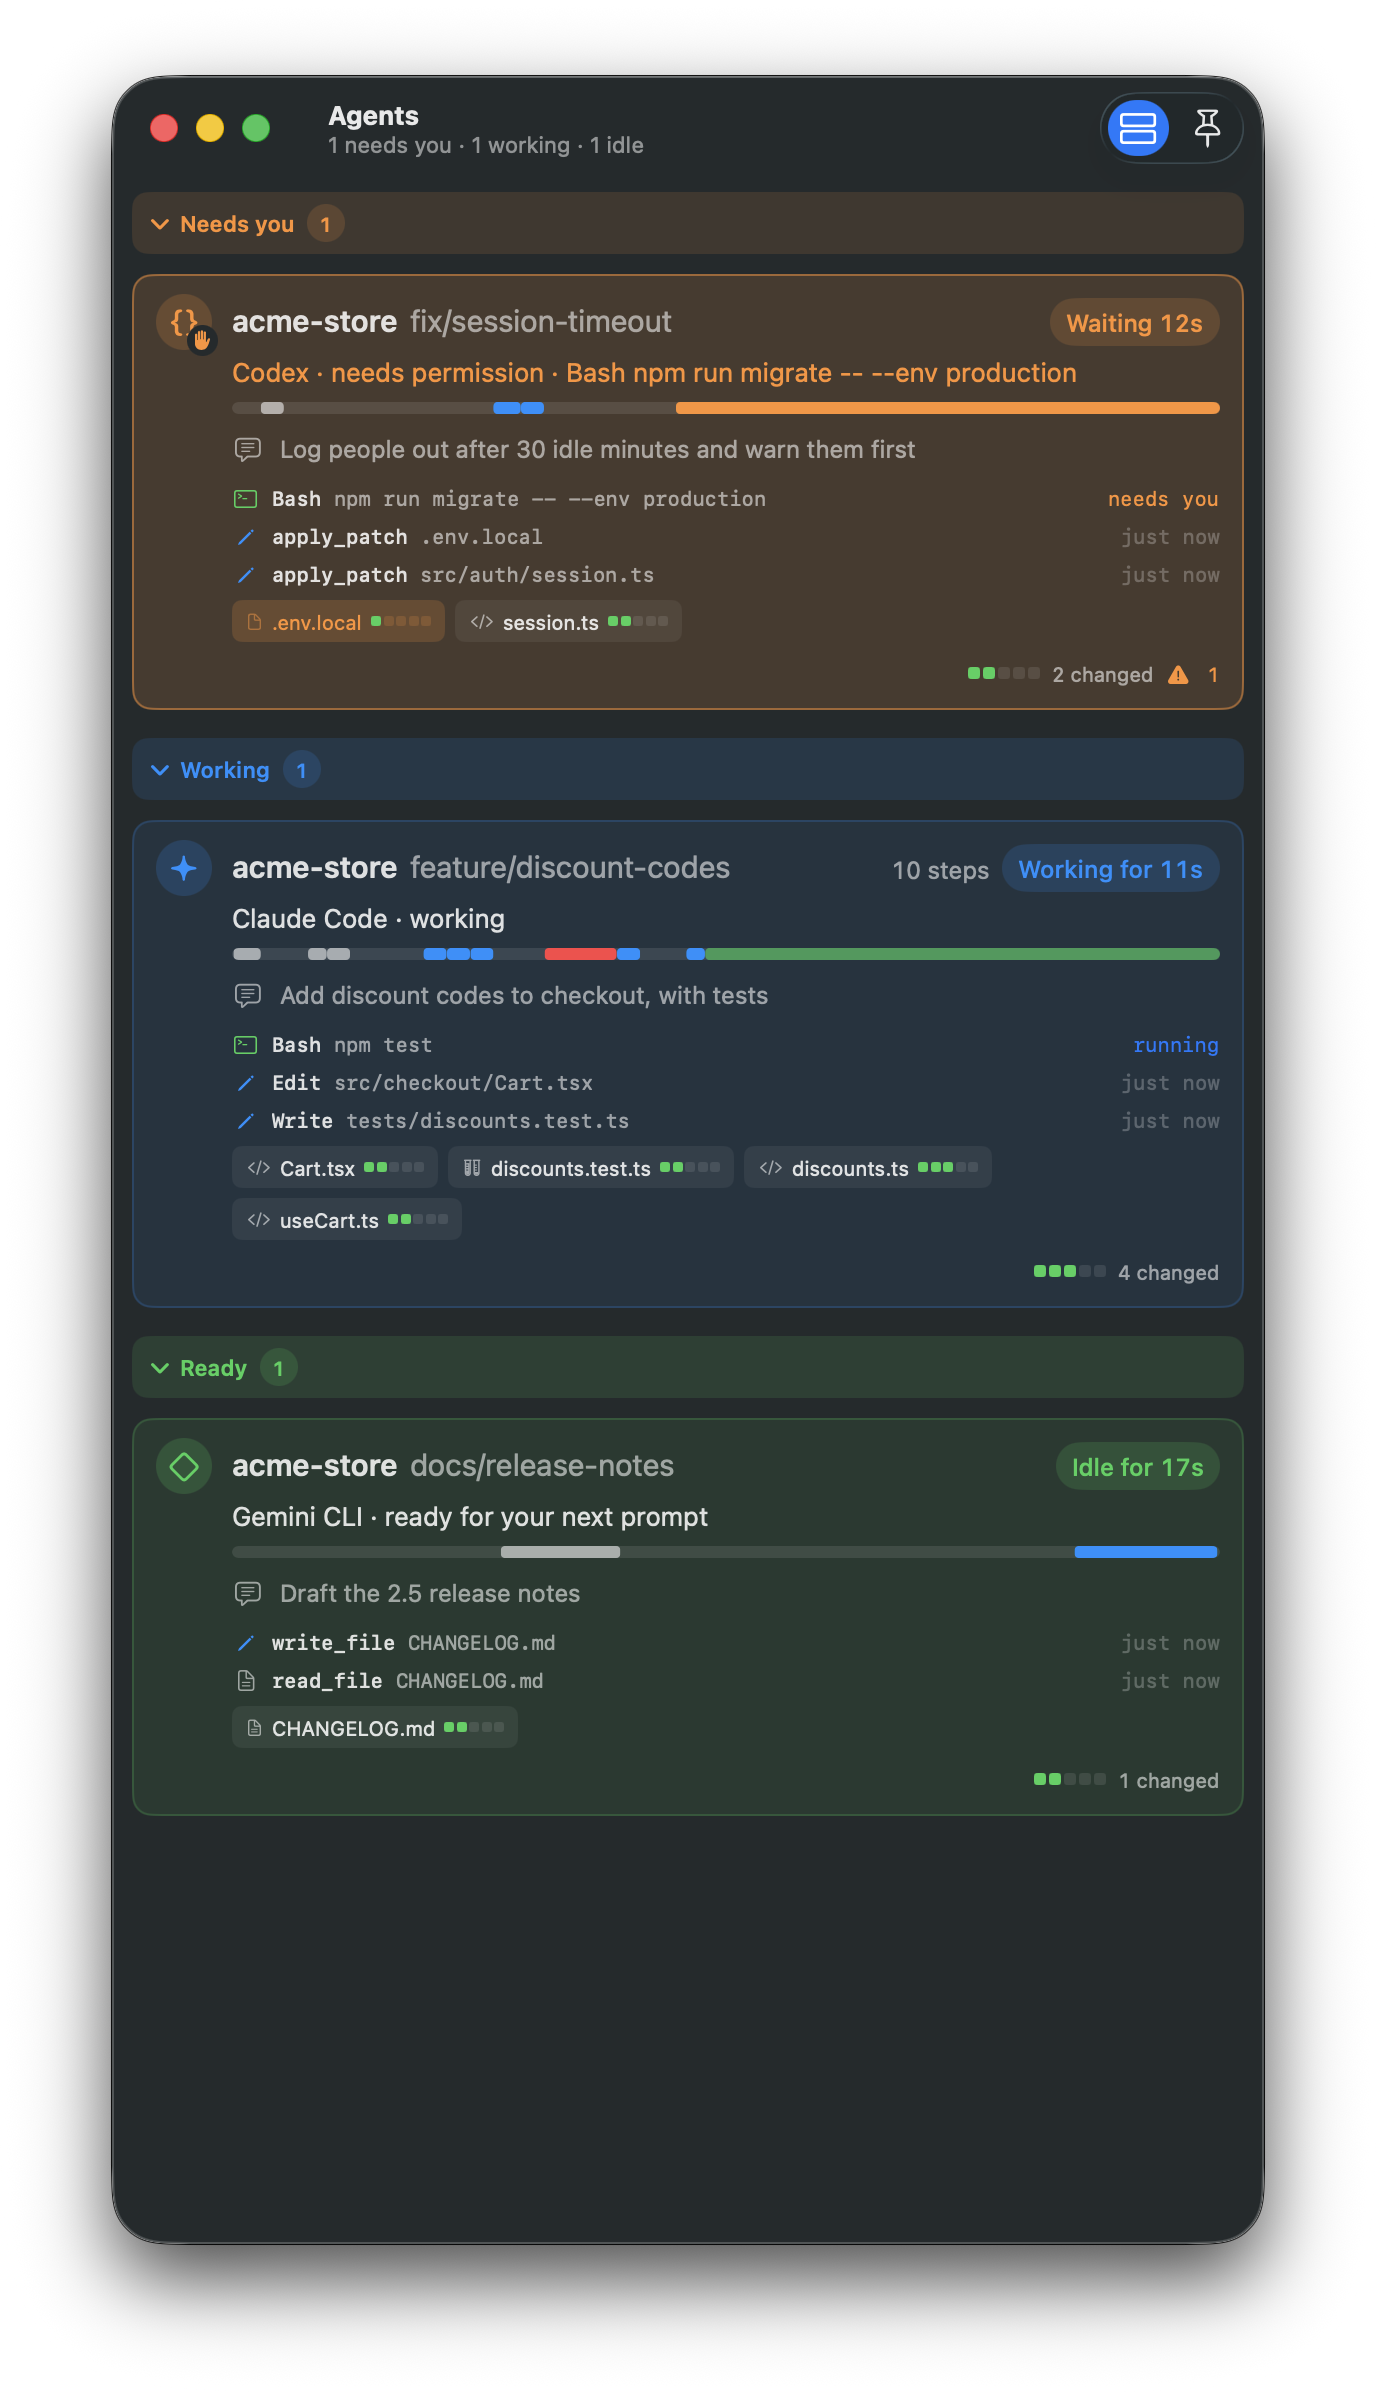
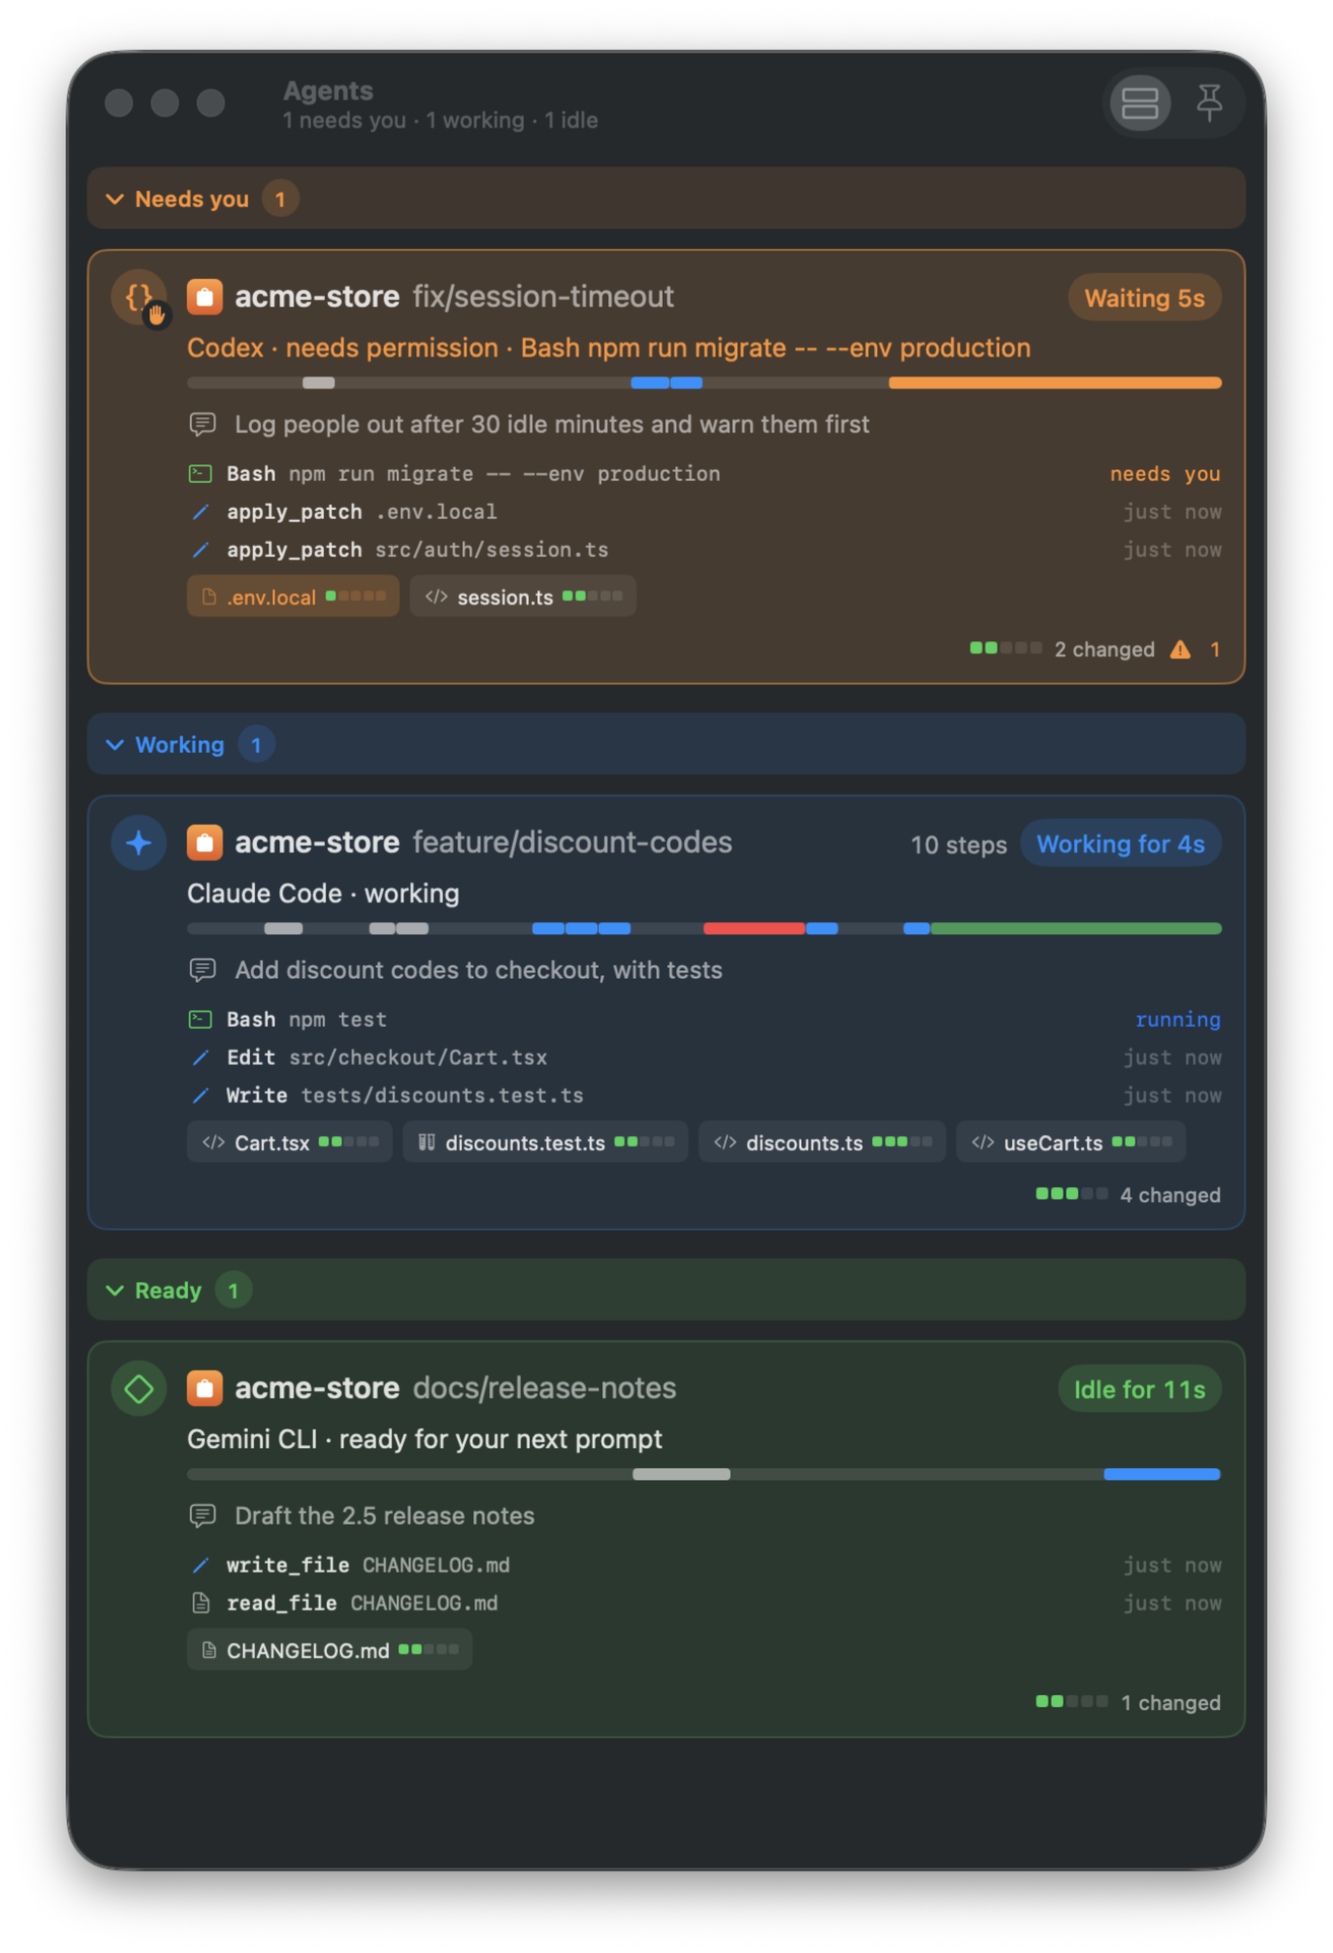
Refresh the README's recording and screenshots
They predated the repositories' icons, the merge and first-run work and the newer layout. Taken
again from the demo, with a second repository beside the web shop, each under an app icon of its
own:

- docs/mimamori-demo.gif: the three agents starting work, 23 s, 4.1 MB (was 5.3).
- docs/mimamori-main.png: the main window with the sidebar showing both repositories.
- docs/mimamori-agents.png: the Agents window, each card led by its project's icon, sized to fit.

A debug flag, sidebar:show, unfolds the main window's sidebar for these captures: the demo shares
the app's bundle id, so it inherits a sidebar you folded. The README's flag table lists it, with
the welcome and uninstall flags.

Changed region(s): [[0.0308, 0.0, 0.9842, 0.9683], [0.7689, 0.8433, 0.8305, 0.8746]]

diff --git a/Sources/Mimamori/DebugHooks.swift b/Sources/Mimamori/DebugHooks.swift
@@ -27,6 +27,10 @@ import WidgetKit
 ///     MIMAMORI_DEBUG_FLAGS=permission:allow     answer a permission request once it has waited 5 s (or permission:deny)
 ///     MIMAMORI_DEBUG_FLAGS=hook-test            send a test event through the hook command once (result in the dump,
 ///                                               Copy Diagnostics' report in <dump>.diagnostics.txt)
+///     MIMAMORI_DEBUG_FLAGS=sidebar:show         unfold the main window's sidebar at its usual width
+///     MIMAMORI_DEBUG_FLAGS=welcome              open the welcome window (uninstall: the Uninstall window)
+///     MIMAMORI_DEBUG_FLAGS=uninstall:run        run Uninstall's default choices, app kept out of the Trash
+///                                               (report in <dump>.uninstall.txt; use a scratch setup)
 ///
 /// Useful for driving the app headlessly from scripts without screen-recording
 /// or accessibility permissions.
@@ -55,6 +59,7 @@ enum DebugHooks {
         var openedCommit = false
         var openedMenuBar = false
         var ranUninstall = false
+        var shownSidebar = false
         var renderedPillPopover = false
         Task { @MainActor [weak model] in
             try? await Task.sleep(for: .seconds(1.5))
@@ -173,6 +178,11 @@ enum DebugHooks {
                     let report = await Uninstaller.run(plan, leftovers: leftovers, model: model)
                     try? report.joined(separator: "\n").write(toFile: dump + ".uninstall.txt", atomically: true, encoding: .utf8)
                 }
+                // "sidebar:show": unfold the main window's sidebar; the window remembers it folded
+                // across launches, and README captures want it.
+                if model.debugFlags.contains("sidebar:show"), !shownSidebar {
+                    shownSidebar = showSidebar()
+                }
                 if model.debugFlags.contains("cycle") {
                     let ids = model.orderedSessions.map(\.id)
                     if !ids.isEmpty {
@@ -209,6 +219,26 @@ enum DebugHooks {
         window.setContentSize(NSSize(width: parts[0], height: parts[1]))
         window.center()
         return true
+    }
+
+    /// Unfolds the main window's sidebar if it is folded. False until the window is there.
+    private static func showSidebar() -> Bool {
+        guard let window = NSApp.windows.first(where: { $0.identifier?.rawValue.hasPrefix("main") == true && $0.isVisible }),
+              let content = window.contentView else { return false }
+        func splitViews(in view: NSView) -> [NSSplitView] {
+            var found = view.subviews.flatMap(splitViews)
+            if let split = view as? NSSplitView { found.insert(split, at: 0) }
+            return found
+        }
+        for split in splitViews(in: content) {
+            guard let controller = split.delegate as? NSSplitViewController,
+                  let sidebar = controller.splitViewItems.first(where: { $0.behavior == .sidebar }) else { continue }
+            if sidebar.isCollapsed { sidebar.isCollapsed = false }
+            // Unfolded, it may come back at its narrowest; give it its usual width.
+            split.setPosition(250, ofDividerAt: 0)
+            return true
+        }
+        return false
     }
 
     /// The widget sizes on a Mac's desktop, in points.

diff --git a/README.md b/README.md
@@ -11,7 +11,7 @@ A small, native macOS app that keeps watch over git worktrees while coding agent
 
 Mimamori is strictly read-only. It never stages, commits, checks out, or takes the repository's `index.lock`, so it can watch any repository while another tool is busy in it.
 
-![Mimamori as three agents start work: Claude Code's edits appear in the change list and the diff, the activity feed fills, the sidebar shows each worktree's agent, and the toolbar pill turns to Codex needs you](docs/mimamori-demo.gif)
+![Mimamori as three agents start work in a web shop's worktrees: Claude Code's edits appear in the change list and the diff, the activity feed fills, the sidebar shows each repository under its own icon with each worktree's agent, and the toolbar pill turns to Codex needs you](docs/mimamori-demo.gif)
 
 ## Why
 
@@ -19,7 +19,7 @@ Git clients are built for committing. When an agent is editing on your behalf, y
 
 ## What it does
 
-![Mimamori watching a worktree while agents work: the toolbar pill saying Codex needs you, Claude Code's banner with its task, steps and files, the change list with diff bars, a diff, and the activity feed](docs/mimamori-main.png)
+![Mimamori watching a worktree while agents work: the sidebar with two repositories under their app icons and an agent in each of three worktrees, the toolbar pill saying Codex needs you, Claude Code's banner with its task, steps and files, the change list with diff bars, a diff, and the activity feed](docs/mimamori-main.png)
 
 - **Watches live.** FSEvents on the worktree and the git directory drive refreshes a few hundred milliseconds after files settle. Recently touched files glow and say "12s ago", so you can see where the agent is working. Each file shows an icon for its kind and a five-block diff bar: the more lines changed, the more blocks light (green for added, red for removed), so the big edits stand out in any list. Bursts that only touch ignored paths (build output, `node_modules`) are discarded without a refresh.
 - **Compares against the right baseline.** Agents commit as they go, so a plain working-tree diff goes blank after each commit. Switch between:
@@ -65,7 +65,7 @@ Git clients are built for committing. When an agent is editing on your behalf, y
   - **Go to agent** brings the app the agent runs in (Terminal, iTerm, VS Code, the Claude or Hermes app) to the front. It appears, with Summary, in place of the step count when you point at a card; an agent waiting on you keeps a tinted Go to agent button, since that is where you answer it.
   - Click a card to jump to that worktree, switch off Details for one line per agent, widen the window past about 900 points for two columns, or pin the window above everything else.
 
-<p align="center"><img src="docs/mimamori-agents.png" width="460" alt="The Agents window: Codex waiting for permission to run a migration, Claude Code working through ten steps, and Gemini CLI ready for its next prompt, each with its task, turn timeline, latest steps and files"></p>
+<p align="center"><img src="docs/mimamori-agents.png" width="460" alt="The Agents window: Codex waiting for permission to run a migration, Claude Code working through ten steps, and Gemini CLI ready for its next prompt, each card led by its project's icon, with its task, turn timeline, latest steps and files"></p>
 
 - **Lives in the menu bar.** A glance shows total changed and flagged files, and how many agents are waiting for you. Click it for a popover drawn like the desktop widget: each agent at work with a live timer, its task and latest steps, then every repository and worktree with what changed. Click an agent or a worktree to open it in Mimamori. Fold the Agents or Worktrees section away by its header, and pin the popover (the pin at its foot) to keep it open as a small window that floats above the others; it opens again at launch until you unpin it.
 
@@ -348,6 +348,10 @@ The switches in `MIMAMORI_DEBUG_FLAGS`. Renders are written next to the dump, in
 | `about` | Open the About window |
 | `permission:allow` | Answer a waiting permission request once it has waited 5 s, as Allow does (`permission:deny` for Deny) |
 | `hook-test` | Send a test event through the hook command once, as Send Test Event does; the result and the recent events go in the dump, and Copy Diagnostics' report in `<dump>.diagnostics.txt` |
+| `sidebar:show` | Unfold the main window's sidebar at its usual width; the window remembers it folded across launches |
+| `welcome` | Open the welcome window |
+| `uninstall` | Open the Uninstall Mimamori window |
+| `uninstall:run` | Run Uninstall with its default choices, keeping the app out of the Trash; its report goes in `<dump>.uninstall.txt`. Point it at a scratch setup (`MIMAMORI_SUPPORT_DIR`, `CLAUDE_CONFIG_DIR`, `HERMES_HOME`) |
 | `settings:<pane>` | Open Settings on that pane; with `settings:agents`, `agents:hooks`, `agents:other`, `agents:widgets` or `agents:notifications` opens that part of it |
 
 Example: `open --env MIMAMORI_SCREENSHOT=/tmp/mimamori.png build/Mimamori.app`
